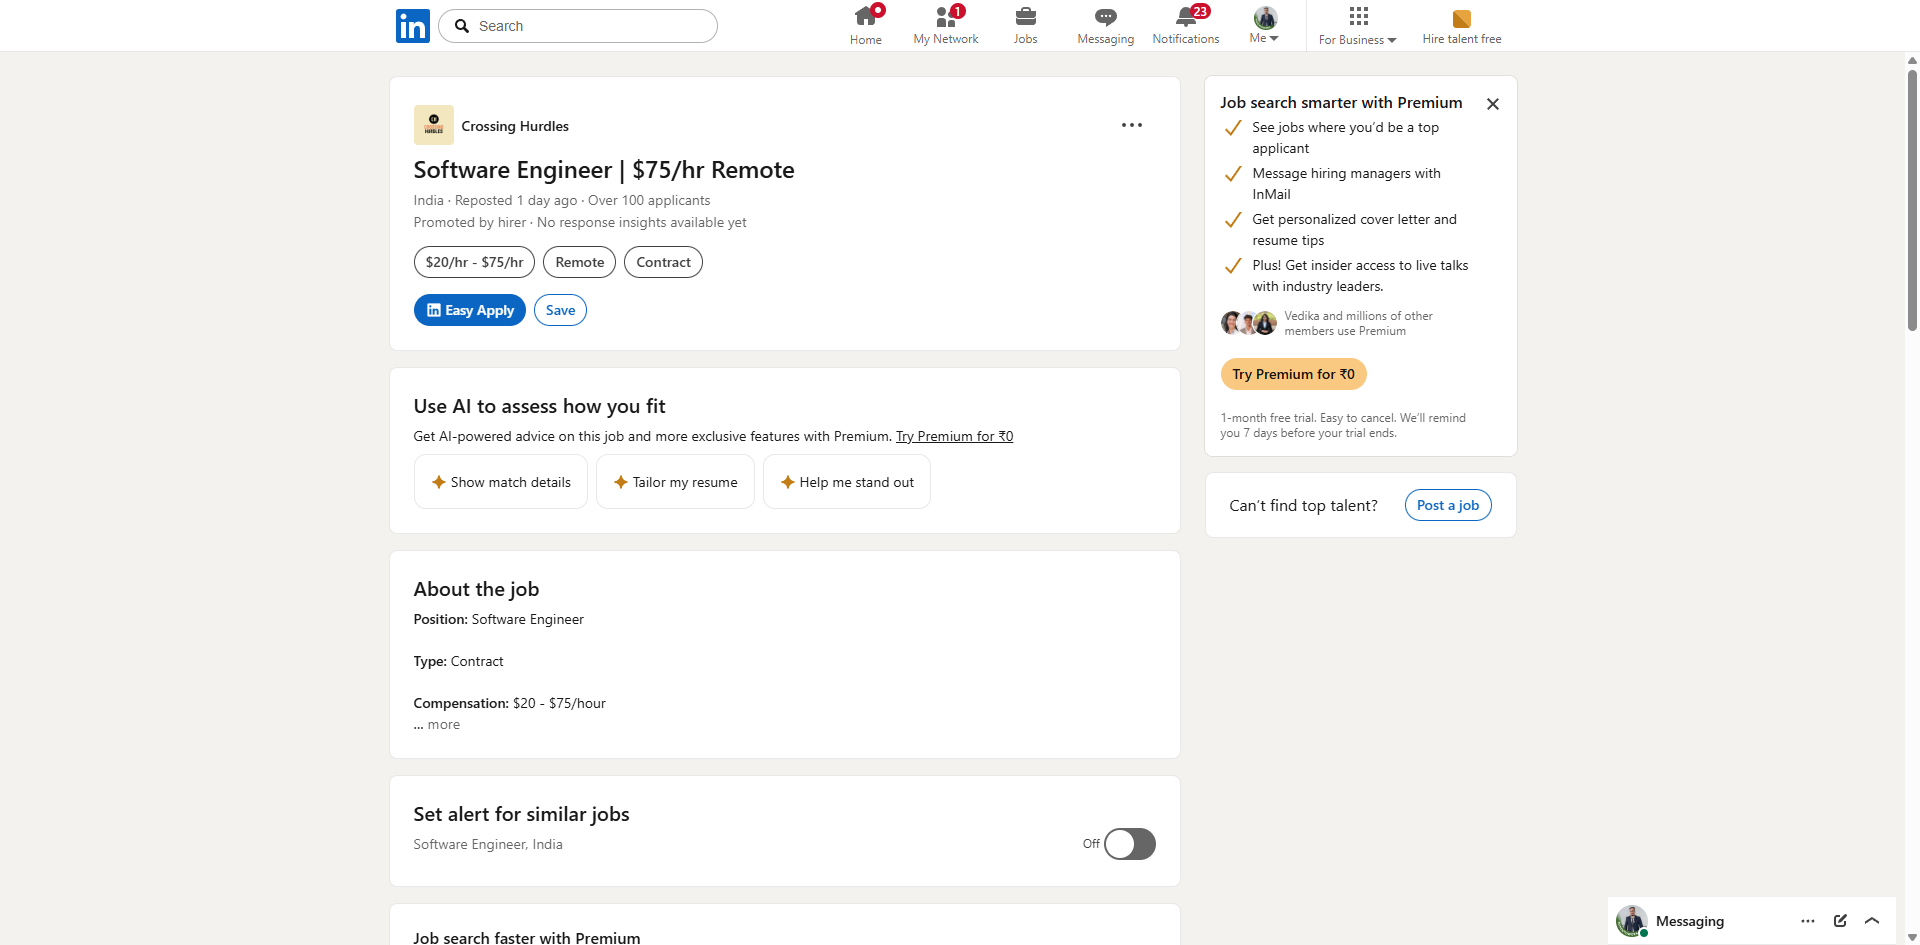
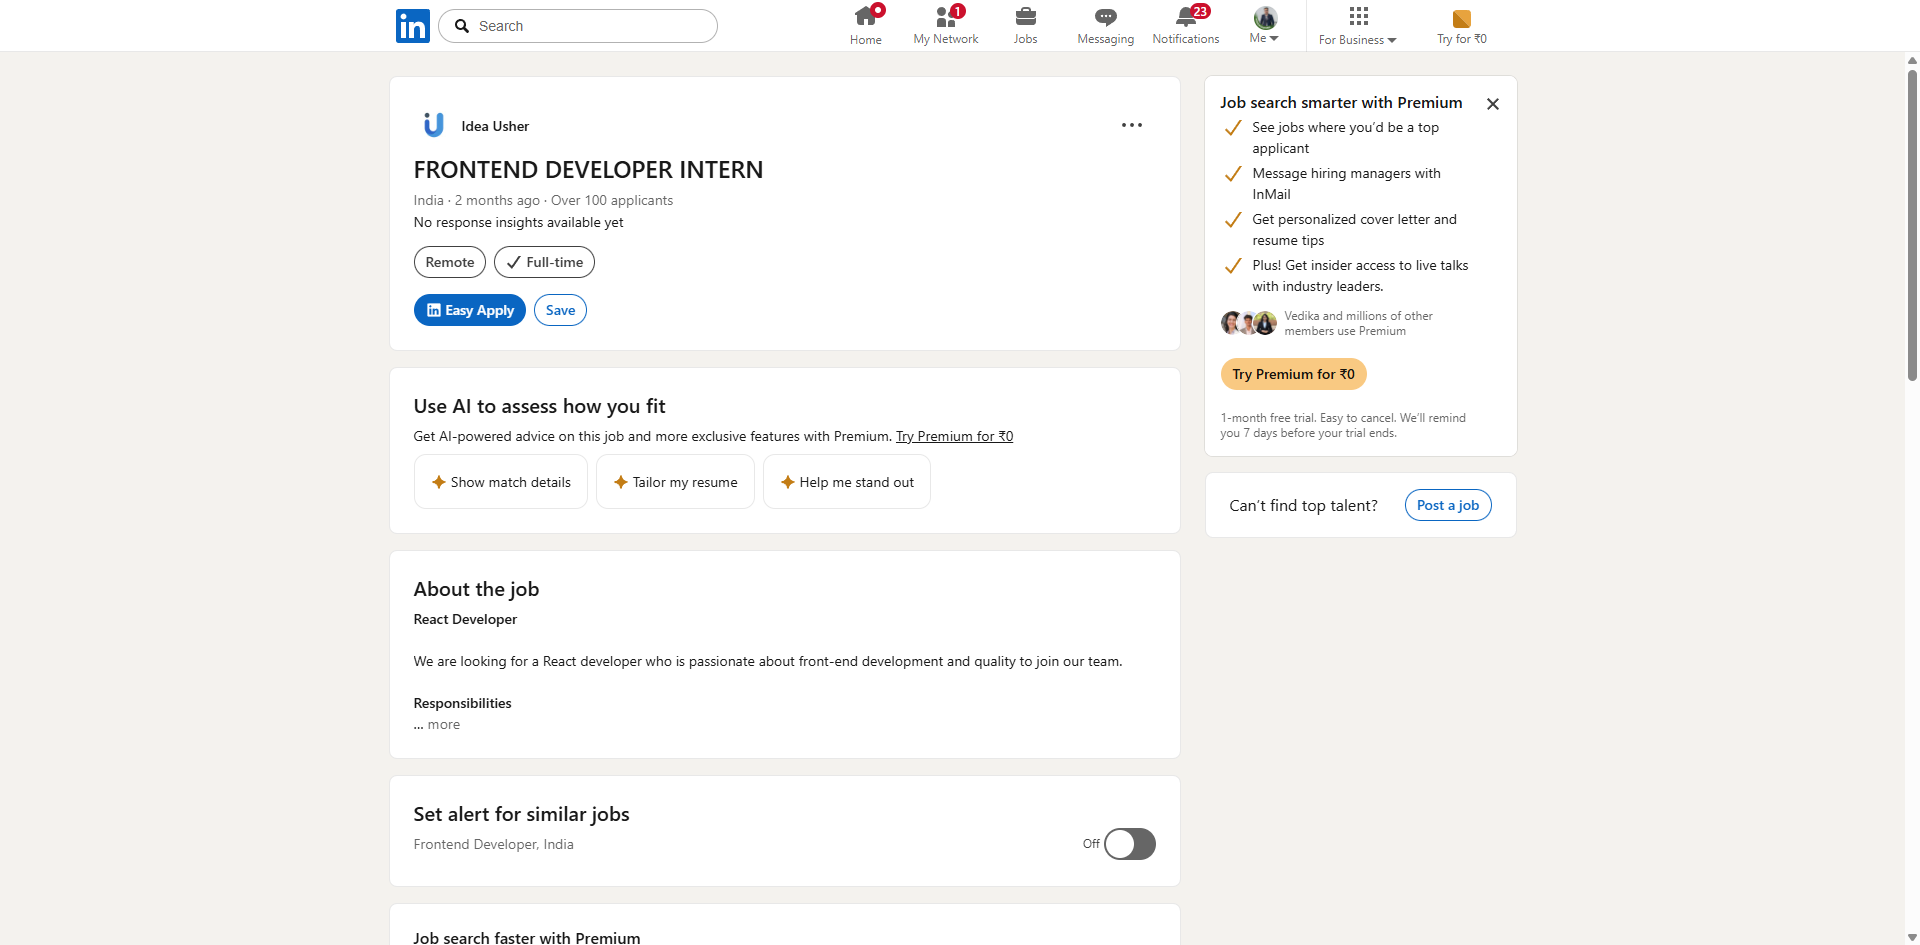
Convert LinkedIn apply flow to modern Playwright Locator API to support all layouts

diff --git a/backend/automations/linkedin.js b/backend/automations/linkedin.js
@@ -136,10 +136,11 @@ export async function applyJob(job, profile) {
       return { success: true, message: 'Already applied' };
     }
 
-    // Look for Easy Apply button with waiting (supports both button tags and link tags containing Easy Apply)
-    const easyApplySelector = 'a:has-text("Easy Apply"), button:has-text("Easy Apply"), .jobs-apply-button';
+    // Look for Easy Apply button with waiting (using modern Playwright Locators)
+    const easyApplySelector = 'button.jobs-apply-button, .jobs-apply-button, a:has-text("Easy Apply"), button:has-text("Easy Apply")';
+    const easyApplyBtn = page.locator(easyApplySelector).first();
     try {
-      await page.waitForSelector(easyApplySelector, { timeout: 8000 });
+      await easyApplyBtn.waitFor({ state: 'visible', timeout: 8000 });
     } catch (e) {
       // Double check already applied text in case it loaded slowly
       const reCheck = await page.evaluate(() => {
@@ -153,7 +154,7 @@ export async function applyJob(job, profile) {
       return { success: false, message: 'Easy Apply button not found (might require external application).' };
     }
 
-    await page.click(easyApplySelector);
+    await easyApplyBtn.click();
     await page.waitForTimeout(3000);
 
     // Multi-step form handler loop